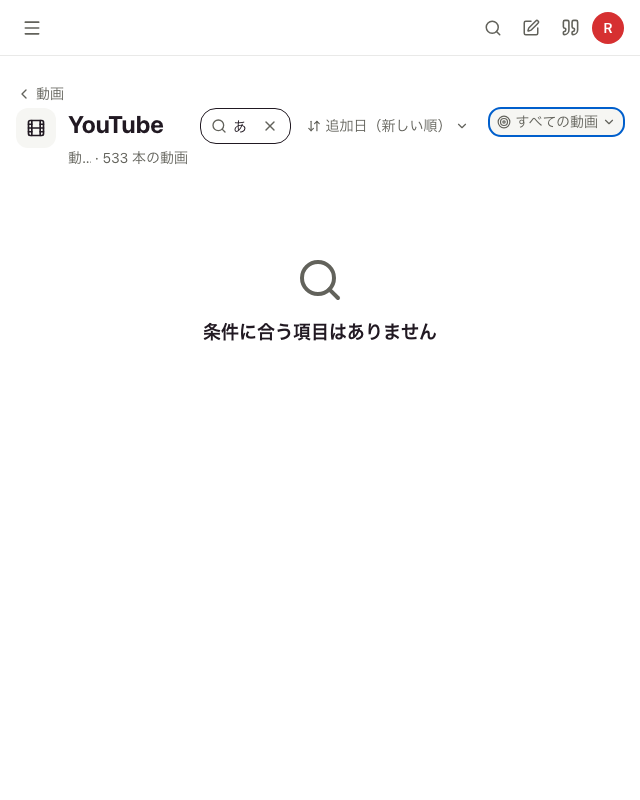
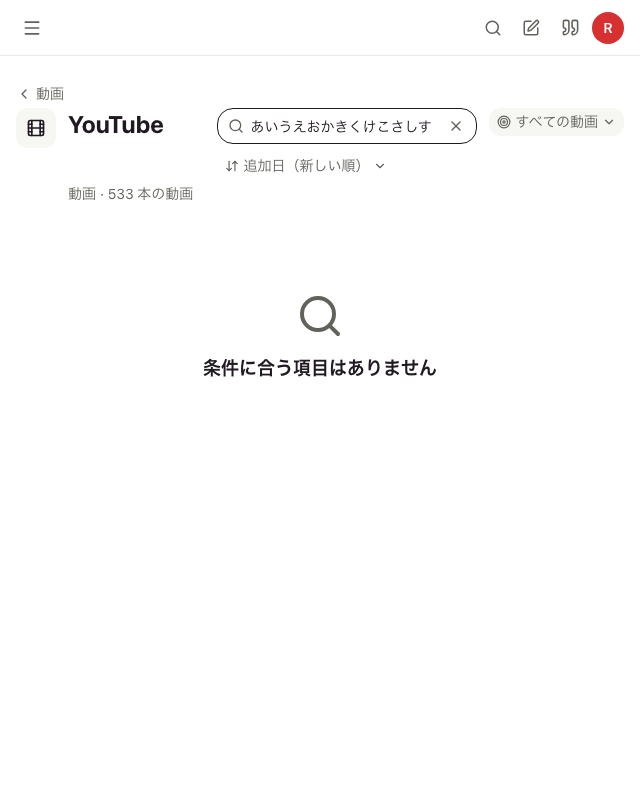
docs: record the R-5 re-check of the stacked See all header
Claude-Session: https://claude.ai/code/session_01JCjngCHX7oJtEfTZRwdDC4

diff --git a/docs/process/reviews/feature-app-library-name-filter/decisions.md b/docs/process/reviews/feature-app-library-name-filter/decisions.md
@@ -2,7 +2,7 @@
 
 decision: D-1 to D-11 of design-check.md accepted by the human (2026-11-21). D-1 to D-4 and D-6 to D-9 are the shipped cards, shelves, header, tab underline and empty-state text, which the artboards drew loosely and this change does not touch; D-10 is the existing header Target row and quiet sort menu, with the field placed as drawn; D-5 is the artboard's inconsistency, and the spec's strong border while the field holds text stands; D-11 records that no artboard draws Clips at 390. r1 HUMAN_REVIEW_REQUIRED: the human said "続ける" (continue, 2026-11-21): SPEC-CORE-099 I13 is revised in invariants.md for listing-mode shelf pages below 640px (the sort under the name field, at its start), as the agreed PhoneSeeAll design and SPEC-CORE-156 I12 already state; the B touch-point findings and the double Clips replace are left as recorded. CI follow-up (2026-11-21): on See all pages at 640-767px the field had shrunk to 67-105px (0px of text area in en) once the whole-value sort stopped overlapping the Target; the human chose "その幅だけ縦 2 段に積む": from 640px to 767px the field (260px) sits above the sort, recorded as I12 and SPEC-CORE-099 I13 (r3) in invariants.md.
 ran_in_app: yes
-at: 036593cce5514bb545672e6104d0d31a1eabdc7d
+at: 4be7884fe890520fb4082ce9c4533f30c9009544
 by: agent
 evidence: Headless Chromium (Playwright 1.58) against the branch stack http://video-share-name-filter.localhost:3117 (knowledge submodule 9de2f0ad7528492b21180f2e6be68f61d9ac9bf0, tree clean), locale ja, viewer cookie `lit_viewer` set so 状態 is drawn. Video on drive 動画, Reading on テスト画像, Clips on 動画. Desktop 1280x720 (pointer fine); phone 390x844 with touch/mobile emulation (`pointer: coarse` confirmed true). Every /api request was logged.
   Video/Reading Library: icon at the right end of the tab row only on ライブラリ (36x36 desktop, 44x44 coarse); none on 発見. Icon press opens a focused field; typing ポケモン sends one shelves request +304ms after the last key, none earlier; Enter applies at +10ms and keeps focus; × and Escape-with-text apply the empty name at once and keep focus; Escape on empty closes and focuses the icon; a spaces-only draft shows ×, sends no request, closes on blur; blur with text keeps it open. Border #211922 with text, default when empty. `search=` is on every grouping (folder/tag/month/duration/なし) and on tag-counts; never on the header count `files?type=video&limit=1`, Discover, or Reading's folder-chip request (`shelves?by=folder&per_shelf=1&shelf_limit=24` not re-sent; chips stay すべて/epub/docs). Every card in the なし grid under アニメ has アニメ in title or folder path (60/60). Name + 状態 未視聴 sends search and watch together. No match -> 条件に合う項目はありません. Kept by tab switch, file page round trip, See all round trip, re-choosing the Target in force (Video, Reading), a Home-shortcut landing (`?target=default`, reached client-side from the drive Home) on the Target in force (Video, Reading; `target` removed from the URL), and clearing the profile in /settings (Video; 状態 disappears, name stays). Text typed <300ms before a tab switch (Video, Reading) or before Back from a from=library See all (Video, Reading) is the name afterwards. Emptied by reload (Video, Reading), by a Target choice (Video, Reading), by a landing on another Target (Video: `?target=<あんこ動画>`), and by opening the app on another drive client-side (Video 動画->テスト画像, Reading テスト画像->動画; the name is also gone on return). Nothing in localStorage/sessionStorage. A response for an older name delayed 2.5s (route delay) was not drawn. IME via CDP Input.imeSetComposition/insertText: no request during 1.6s of composition, one request +304ms after compositionend.
@@ -12,5 +12,5 @@ evidence: Headless Chromium (Playwright 1.58) against the branch stack http://vi
   Failure: shelves requests aborted by Playwright route (stack untouched) on the Video/Reading Library, the Video and Reading See all pages, the Clips Library and a Clips folder: shelf page: each shows 再試行 (Clips 読み込めませんでした / 再試行), the text stays, retry draws the results.
   Re-check at d2012b837 (frontend rebuilt from it; knowledge unchanged at 9de2f0ad): the full walk above ran at d6df6019; only the two fixed paths were re-run here. (1) Clips, typing ZZ and leaving within 300ms, shelf page -> Library and Library -> shelf page: URL keeps q=の, no request carries ZZ, and the field now shows の, the name in force (it showed のZZ at d6df6019) (clips-1280-scopekey-leave-shelf.png, clips-1280-scopekey-leave-library.png). (2) See all at 390, Video and Reading: field x=16..374, 44px, same right edge as the grid (cards end at x=374); sort below at x=16; no horizontal scroll (video-390-seeall.png, reading-390-seeall.png retaken). The Target button above still ends at x=382, unchanged from before.
   Screenshots (390 shots are 2x, 780px wide): docs/process/reviews/feature-app-library-name-filter/shots/. Artboards: Main video-1280-main-closed.png (+reading-); Open video-1280-open-text.png (+reading-); SeeAll video-1280-seeall-from-library.png (+reading-); Clips clips-1280-library-open-text.png (1280x620, q=の); Phone video-390-library-closed.png; PhoneOpen video-390-library-open-text.png; PhoneEmpty video-390-library-nomatch-tag.png; Discover video-390-discover.png; PhoneSeeAll video-390-seeall.png; Reading and Clips 390 equivalents beside them. video-1280-open-empty/tagmenu/nomatch/failed/discover-with-name-in-store/seeall-from-discover/entry-page-with-q and the reading-1280 non-artboard shots were taken without a viewer profile, so 状態 is absent in them.
-  Re-check at 036593cce (frontend rebuilt; knowledge unchanged at 9de2f0a): See all header, Video and Reading, ja and en, fine pointer, 40-character q, widths 640/768/1024/1280. In every case the field comes before the sort on one row, the sort draws its whole value inside its box (scrollWidth = clientWidth, no child outside it; ja 178px, en 223px), the sort ends 12px before the Target, the Target is the element under its centre and opens its menu, and there is no sideways scroll. Field width: 260px at 1024 and 1280 (1280 positions unchanged from d6df6019); narrower at 640/768 (ja video 91/219, ja reading 105/233, en video 67/195, en reading 70/198). Measured: the input's own text box inside the field is then 17px (ja video 640), 31px (ja reading 640) and 0px (en video and en reading 640), so at 640 in en no typed character is visible, only the icon and the clear button; at 768 it is 121-159px. Screenshots: video-640-seeall.png, reading-640-seeall.png (ja), video-640-seeall-en.png, reading-640-seeall-en.png.
+  Re-check at 4be7884fe (frontend rebuilt; knowledge unchanged at 9de2f0a): See all header, Video and Reading (from=library), ja and en, 40-character q, fine pointer at 640/767/768/1024/1280 and coarse 390. 640 and 767: the field is 260px (input text box 186px, typed text visible) in the title row (top y=108), the sort is on the next line (y=152) starting at the field's left edge, draws its whole value inside its box, and ends left of the Target (e.g. en video 640: sort x=238..461, Target 510..624); the Target is the element under its centre and opens its menu; no sideways scroll. 768: field before sort on one row, field 195-233px; 1024 and 1280: one row, field 260px, 1280 positions unchanged from d6df6019. 390: unchanged (field x=16..374, 44px, sort below at x=16). Observed at 640/767: the subtitle line (e.g. 動画 · 533 videos) sits below the sort row, at y≈190, rather than directly under the title. Screenshots retaken: video-640-seeall.png, reading-640-seeall.png, video-640-seeall-en.png, reading-640-seeall-en.png.
 pending: Typing with a real Japanese IME on a real keyboard and on iOS (only CDP-synthesised composition was used). iOS Safari not zooming on focus (16px measured, not observed on a device). Not produced with this data: Reading landing on another Target (no Target on テスト画像 holds a book, so the field is not drawn either way); fallback to `default` and member re-evaluation (need a Target deleted or a Smart Collection's members changed during the session).
